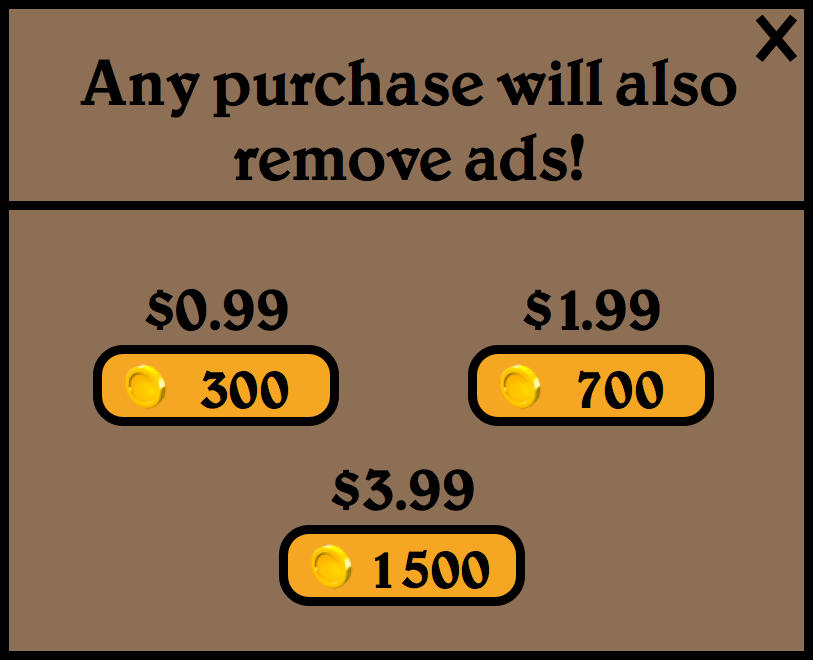
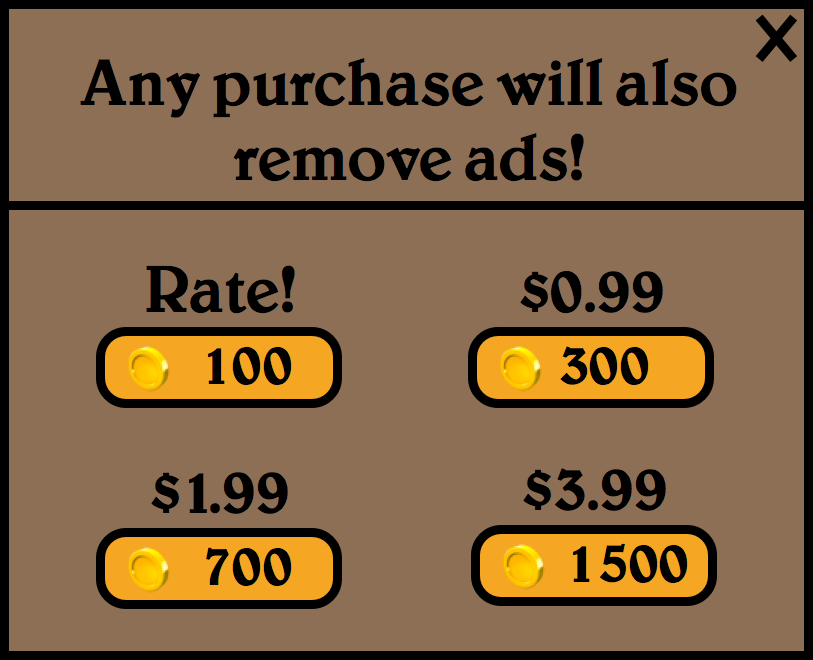
Added Rate Button

Changed region(s): [[0.0923, 0.697, 0.8918, 0.9394], [0.5535, 0.3939, 0.8918, 0.6667], [0.0923, 0.3939, 0.4305, 0.6667]]

diff --git a/PurchaseViewController.swift b/PurchaseViewController.swift
@@ -21,6 +21,19 @@ class PurchaseViewController: UIViewController {
         parentVC.storeLabel.enabled = true
     }
     
+    @IBAction func rateButton(sender: AnyObject) {
+        
+    }
+    
+    
+    @IBAction func oneDollar(sender: AnyObject) {
+    }
+    
+    @IBAction func twoDollar(sender: AnyObject) {
+    }
+    
+    @IBAction func fourDollar(sender: AnyObject) {
+    }
 
     override func viewDidLoad() {
         super.viewDidLoad()
